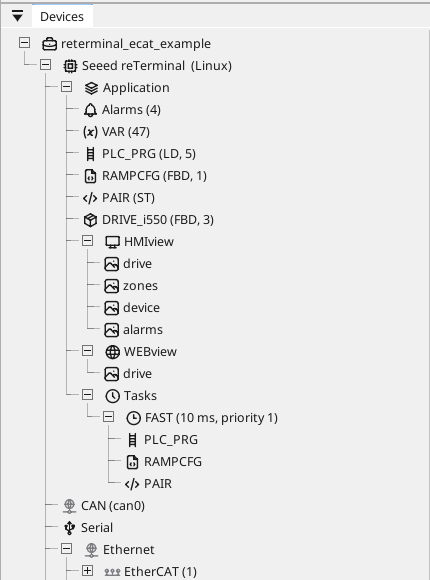
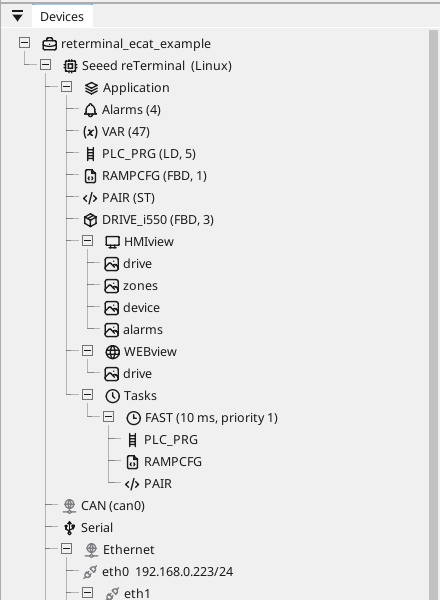
the tree picture shows the adapters, and the EtherCAT walk-through says which port the master hangs under

Changed region(s): [[0.0302, 0.0, 0.6349, 1.0], [0.9674, 0.031, 1.0, 1.0], [0.0302, 0.0, 0.0605, 0.031]]

diff --git a/docs/tutorial-ethercat.md b/docs/tutorial-ethercat.md
@@ -51,7 +51,14 @@ In the tree, under **Ethernet**, add **EtherCAT**. The page that opens
 is the master's: the cycle time, and the slaves in the order they are
 wired.
 
-![The tree with the line in place: the EtherCAT master, the slave under it and the variables it brought with it](img/ecat-tree.webp){: .sb-center}
+A Linux device usually has two network ports, so the tree shows them:
+under *Ethernet* sits one row per adapter, and the master hangs under
+the one it owns — the port with no address, the one you picked in
+*Prepare a Linux device*. The adapters appear once the editor has
+looked at the device; before that the master sits under *Ethernet*
+itself.
+
+![The tree with the line in place: the master sits under the adapter it owns, eth1, with its slave under it](img/ecat-tree.webp){: .sb-center}
 
 ![The EtherCAT master's page](img/ecat-buspage.webp){: .sb-center}
 

diff --git a/docs/ethercat.md b/docs/ethercat.md
@@ -42,7 +42,7 @@ the device sends by default. The Lenze i550 ships in the library.
 
 ## The device's window
 
-![The tree of a Linux device: the EtherCAT line under Ethernet, its slaves under it](img/ecat-tree.webp){: .sb-center}
+![The tree of a Linux device: the network adapters under Ethernet, and the EtherCAT master under the one it owns](img/ecat-tree.webp){: .sb-center}
 
 Double-click a slave and it opens with the same tabs a CAN device has:
 
